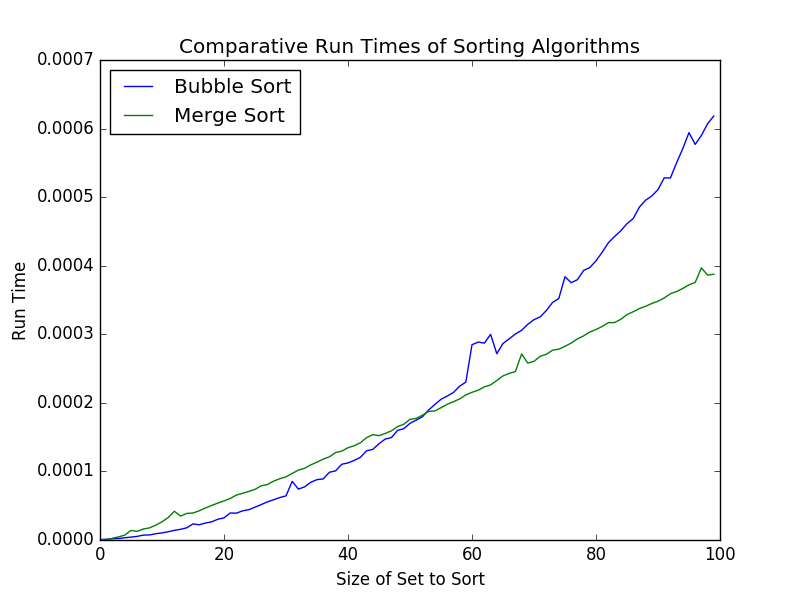
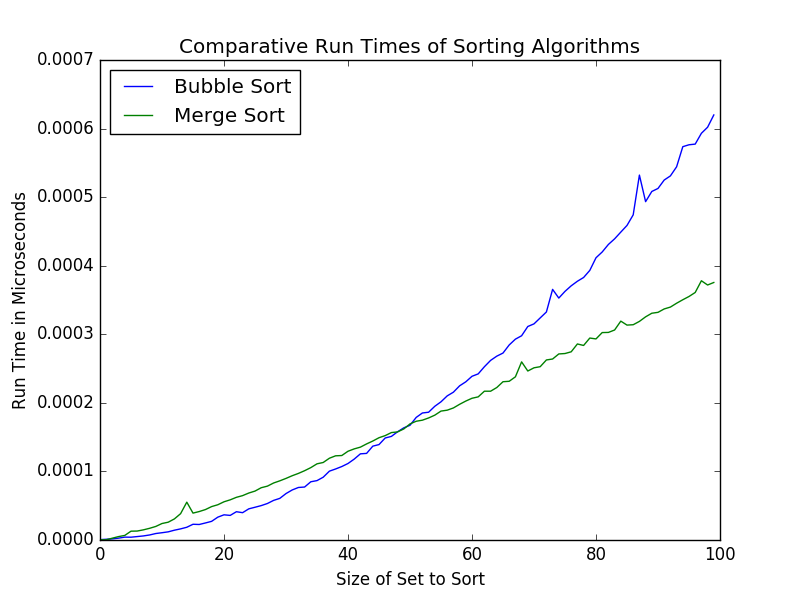
Minor change to HW4_a

diff --git a/Homework/HW5/hw5.py b/Homework/HW5/hw5.py
@@ -1,0 +1,28 @@
+class LinkedList:
+	def __init__(self,value=None):	
+		self.value = value
+		
+	def length(self):
+	
+	def addNode(self,new_value):
+	
+	def addNodeAfter(self, new_value, after_node):
+	
+	def addNodeBefore(self, new_value, before_node):
+	
+	def removeNode(self, node_to_remove):
+	
+	def removeNodesByValue(self, value):
+	
+	def reverse(self):
+	
+	def __str(self)__:
+	
+
+class Node:
+	def __init__(self, _value=None, _next=None):
+		self.value = _value
+		self.next = _next
+	def __str__(self):
+		return str(self.value)
+

diff --git a/Homework/HW4/hw4_a.py b/Homework/HW4/hw4_a.py
@@ -1,5 +1,7 @@
 import random
 import timeit
+from matplotlib import pyplot as plt
+import numpy
 
 list = range(1,100)
 random.shuffle(list)
@@ -157,7 +159,7 @@ plt.plot(sample_size_bs,run_times_bs,label="Bubble Sort")
 plt.plot(sample_size_ms,run_times_ms,label="Merge Sort")
 
 plt.title("Comparative Run Times of Sorting Algorithms")
-plt.ylabel("Run Time")
+plt.ylabel("Run Time in Microseconds")
 plt.xlabel("Size of Set to Sort")
 
 plt.legend(loc=2)
